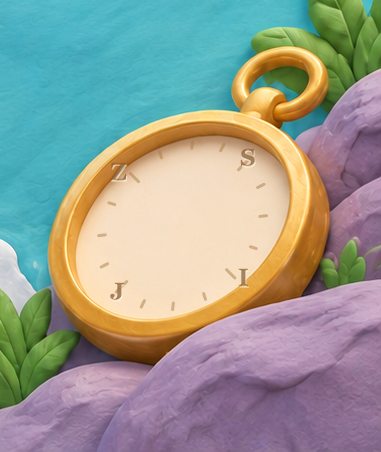
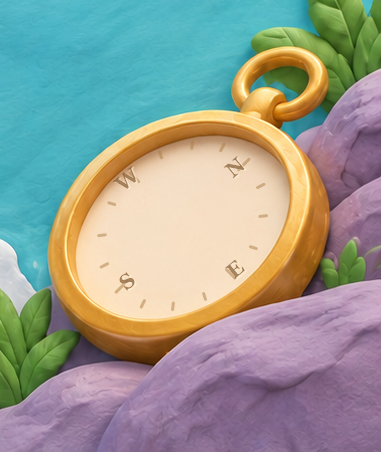
Smooth Drzava flight and synchronize pin routes

diff --git a/www/index.html b/www/index.html
@@ -7,7 +7,7 @@
     <title>ZEMLJOPIS</title>
     <link rel="stylesheet" href="https://cdnjs.cloudflare.com/ajax/libs/font-awesome/6.4.0/css/all.min.css">
     <link rel="stylesheet" href="vendor/maplibre-gl.css">
-    <link rel="stylesheet" href="style.css?v=24">
+    <link rel="stylesheet" href="style.css?v=25">
     <link rel="preload" href="assets/splash-soft-matte-bg-reka-master-clean-v6.png" as="image" type="image/png" fetchpriority="high">
     <link rel="preload" href="assets/serbia-heart-clay-soft-matte-v1.png" as="image" type="image/png">
 </head>
@@ -1328,7 +1328,7 @@
     <script src="managers.js?v=2"></script>
     <script src="globalchat.js"></script>
     <script src="sinhronizacija.js"></script>
-    <script src="asset-preloader.js?v=4"></script>
+    <script src="asset-preloader.js?v=5"></script>
     <script>
         window.ZemljopisIntroQuotes = [
             { text: 'Zemlja je ono što nam je svima zajedničko.', author: 'Wendell Berry' },
@@ -1385,7 +1385,7 @@
         }
     </script>
     <script src="vendor/gsap.min.js"></script>
-    <script src="theme-live-png.js?v=3"></script>
+    <script src="theme-live-png.js?v=4"></script>
     <script src="splash-atmosphere-gsap.js"></script>
     <script type="module" src="splash-logo-3d.js"></script>
     <script src="game.js"></script>

diff --git a/www/style.css b/www/style.css
@@ -20249,7 +20249,7 @@ body[data-pismo="cirilica"] .kviz-round-break.kviz-podpitanje-pauza .kviz-break-
 }
 
 /* Seven clay scenes: still PNG fallback and matching animated PNG frames. */
-body[data-tema="drzava"] { --theme-bg-image: url('assets/theme-live-v3/drzava-base.png?v=2'); }
+body[data-tema="drzava"] { --theme-bg-image: url('assets/theme-live-v3/drzava-base.png?v=3'); }
 body[data-tema="okean"] { --theme-bg-image: url('assets/theme-live-v2/okean.png'); }
 body[data-tema="grad"] { --theme-bg-image: url('assets/theme-live-v2/grad.png'); }
 body[data-tema="planina"] { --theme-bg-image: url('assets/theme-live-v2/planina.png'); }

diff --git a/www/theme-live-png.js b/www/theme-live-png.js
@@ -28,7 +28,7 @@
         if (supported && active && !document.hidden && !reducedMotion.matches) {
             if (image.parentElement !== active) active.appendChild(image);
             const source = theme === 'drzava'
-                ? 'assets/theme-live-v3/drzava-live.png?v=2'
+                ? 'assets/theme-live-v3/drzava-live.png?v=3'
                 : `assets/theme-live-v2/${theme}-live.png`;
             if (image.getAttribute('src') !== source) {
                 image.hidden = true;

diff --git a/www/asset-preloader.js b/www/asset-preloader.js
@@ -107,7 +107,7 @@
     };
 
     const TEMATSKI_ASSETI = {
-        drzava: ['assets/theme-live-v3/drzava-base.png?v=2'],
+        drzava: ['assets/theme-live-v3/drzava-base.png?v=3'],
         okean: ['assets/theme-live-v2/okean.png'],
         grad: ['assets/theme-live-v2/grad.png'],
         planina: ['assets/theme-live-v2/planina.png'],

diff --git a/background-concepts/drzava-live-v3-spec.md b/background-concepts/drzava-live-v3-spec.md
@@ -2,25 +2,25 @@
 
 Statična osnova: `www/assets/theme-live-v3/drzava-base.png` (941 × 1672).
 
-Osnova sadrži kartu, reljef, okean, nebo i statično kućište kompasa sa oznakama strana sveta `S/I/J/Z` (sever, istok, jug, zapad). Oznake i crtice su zaseban statični `www/assets/theme-live-v3/compass-dial.png`, a `compass-background.png` je izvod kućišta sa brojčanikom bez igle. Na osnovi nema aviona, pinova, oblaka, linija između pinova ni pokretne igle. Čista osnova pre ucrtavanja oznaka sačuvana je kao `background-concepts/drzava-live-v3-base-blank-compass.png`.
+Osnova sadrži kartu, reljef, okean, nebo i statično kućište kompasa sa engleskim oznakama `N/E/S/W`. Slova su zakrenuta u ravan nagnutog brojčanika i stoje unutar njegovog oboda. Oznake i crtice su zaseban statični `www/assets/theme-live-v3/compass-dial.png`, a `compass-background.png` je izvod kućišta sa brojčanikom bez igle. Na osnovi nema aviona, pinova, oblaka, linija između pinova ni pokretne igle. Čista osnova pre ucrtavanja oznaka sačuvana je kao `background-concepts/drzava-live-v3-base-blank-compass.png`.
 
 Pokretni detalji su izrađeni kao odvojeni providni PNG fajlovi u `background-concepts/drzava-live-v3-sprites/`:
 
-- Avion: posebni providni PNG prikazi iz više uglova za promenu pravca leta; isti 3D Soft Clay Mat materijal i svetlo.
-- Pinovi: `pin-coral.png`, `pin-gold.png`, `pin-africa.png` i `pin-rose.png` na Severnoj Americi, Evropi, Africi i Južnoj Americi. Svi su prikazani u izvornom odnosu širine i visine. Svaki se jednom tokom ciklusa podigne i ponovo dotakne površinu karte.
-- Linija: pojavljuje se tek kada pin dotakne tlo i putuje ka sledećem pinu; zasebni raster kadrovi, bez trajne linije na osnovi.
+- Avion: osam providnih PNG pogleda istog aviona, u osnovnim i dijagonalnim smerovima. Ista eliptična putanja sada traje dvanaest sekundi.
+- Pinovi: `pin-coral.png`, `pin-gold.png`, `pin-africa.png` i `pin-rose.png` na Severnoj Americi, Evropi, južnijem središnjem delu Afrike prema Madagaskaru i Južnoj Americi. Svi su prikazani u izvornom odnosu širine i visine.
+- Linija: posle udara jednog pina putuje ka sledećem. Kada stigne, taj pin se podiže i udara u mapu; tek njegov udar šalje novu liniju. Krug ide Severna Amerika → Evropa → Afrika → Južna Amerika → Severna Amerika. Linija je deo zasebnih raster kadrova i nije trajno nacrtana na osnovi.
 - Oblaci: `cloud-left.png`, `cloud-middle.png` i `cloud-right.png` blago klize u gornjem delu slike.
 - Kompas: `compass-needle.png` leži iznad statičnog brojčanika sa oznakama i blago menja pravac. Osnovni ugao igle je poravnat sa nagnutim ovalom kompasa.
 
-Avion koristi `plane-front.png`, `plane-right.png`, `plane-away.png` i `plane-left.png`, sa različitim pogledima istog modela. Linija je iscrtana u PNG kadrovima nakon udara pina; ostaje vidljiva do kraja ciklusa, pa izbledi. Četiri ugla aviona, tri pina i tri oblaka potiču iz novih transparentnih imagegen PNG listova `plane-sheet.png`, `pins-sheet.png` i `clouds-sheet.png`. Listovi su razdvojeni skriptom `scripts/split-drzava-v3-sprites.ps1`; `compass-needle.png` je zaseban generisani PNG.
+Osam uglova aviona, tri prvobitna pina i tri oblaka potiču iz transparentnih imagegen PNG listova `plane-sheet.png`, `plane-diagonals-sheet.png`, `pins-sheet.png` i `clouds-sheet.png`. Listovi su razdvojeni skriptom `scripts/split-drzava-v3-sprites.ps1`; `pin-africa.png` i `compass-needle.png` su zasebno generisani PNG fajlovi.
 
-Prompts: jedan isti krem i koralni avion iz četiri smera; četiri zaobljena glinena pina u koralnoj, zlatnoj, tirkiznoj i ružičastoj boji; tri različita mekana krem/lavanda oblaka; zlatno-lavanda četvorokraka igla kompasa. Svi imaju pravu providnu pozadinu, mat glineni materijal i osvetljenje sa gornje leve strane, bez teksta ili drugih elemenata. Afrički tirkizni pin je napravljen kao zaseban novi PNG prema referenci prva tri pina.
+Prompts: jedan isti krem i koralni avion iz osam uglova; četiri zaobljena glinena pina u koralnoj, zlatnoj, tirkiznoj i ružičastoj boji; tri različita mekana krem/lavanda oblaka; zlatno-lavanda četvorokraka igla kompasa. Svi imaju pravu providnu pozadinu, mat glineni materijal i osvetljenje sa gornje leve strane, bez teksta ili drugih elemenata. Afrički tirkizni pin i četiri dodatna dijagonalna ugla aviona napravljeni su prema referenci postojećih spriteova.
 
-`scripts/build-drzava-live-v3-frames.ps1` pravi 72 transparentna PNG kadra. `scripts/build-theme-live-apng.py` ih pakuje sa statičnom osnovom u `www/assets/theme-live-v3/drzava-live.png` (APNG, 73 kadra, devet sekundi po ciklusu). U aplikaciji se za Državu koristi statična osnova i ovaj live PNG, bez SVG/CSS animacije pozadine.
+`scripts/build-drzava-live-v3-frames.ps1` pravi 96 transparentnih PNG kadrova. `scripts/build-theme-live-apng.py` ih pakuje sa statičnom osnovom u `www/assets/theme-live-v3/drzava-live.png` (APNG, 97 kadrova, dvanaest sekundi po ciklusu). U aplikaciji se za Državu koristi statična osnova i ovaj live PNG, bez SVG/CSS animacije pozadine.
 
 ```powershell
 ./scripts/split-drzava-v3-sprites.ps1
 ./scripts/build-drzava-v3-compass-dial.ps1
-./scripts/build-drzava-live-v3-frames.ps1 -FrameCount 72
-python scripts/build-theme-live-apng.py --frame-root tmp/drzava-v3-frames --asset-root www/assets/theme-live-v3 --themes drzava --frames 72 --duration-ms 125 --base-duration-ms 1
+./scripts/build-drzava-live-v3-frames.ps1 -FrameCount 96
+python scripts/build-theme-live-apng.py --frame-root tmp/drzava-v3-frames --asset-root www/assets/theme-live-v3 --themes drzava --frames 96 --duration-ms 125 --base-duration-ms 1
 ```
